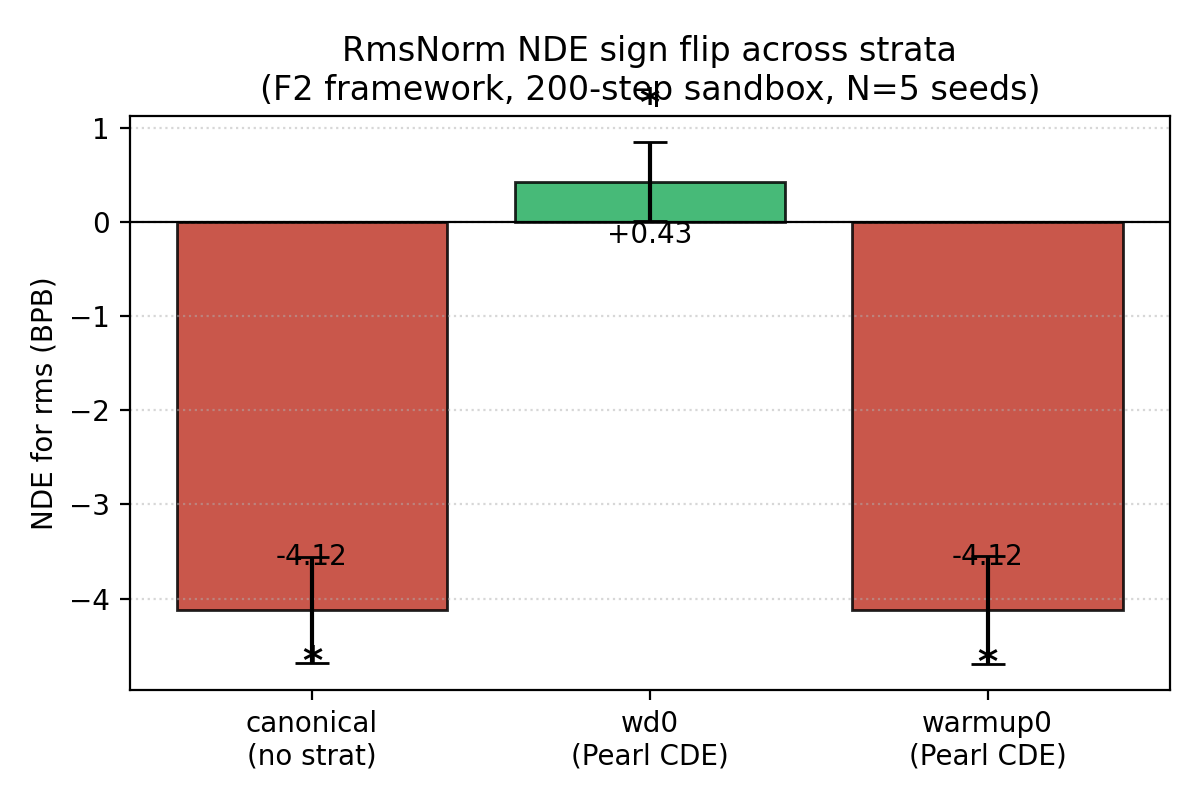
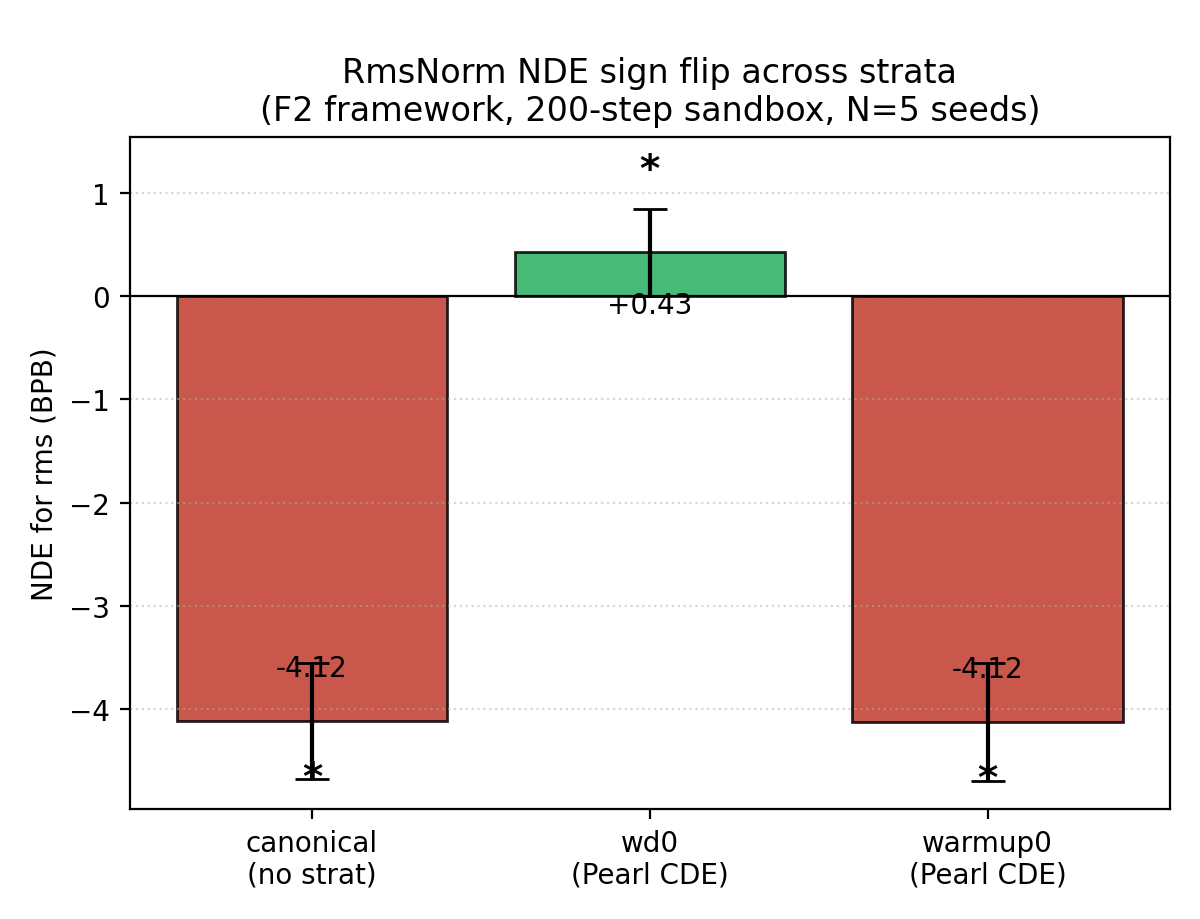
fix(f2): 27th pass critical fixes on #1021 + Fig 4 margin (Loop 104)
Loop 104 dispatched the 27th adversarial pass — first cold-read of
the #1021 follow-up paper draft as a standalone manuscript. It
caught three substantive issues that would have been TMLR-blockers
at submission, plus the smaller cosmetic Fig 4 fix from Loop 103.

# 1. Jetfire mis-citation corrected (27th pass — SEV-3)

§2.1 of #1021 draft attributed arXiv:2310.16836 to "Xi et al. 2024,
Jetfire" — wrong. WebFetch confirmed 2310.16836 is "LLM-FP4"
(Liu et al.), a W4A4 floating-point POST-training method, NOT
Jetfire and NOT from-scratch. The actual Jetfire reference is
arXiv:2403.12422 (Xi et al. NeurIPS 2024, INT4 weights + INT8
activations, from-scratch). The mis-citation broke §3.1's central
INT4-W4A8 zoo comparator.

Fix: §2.1 rewritten with correct citation; LLM-FP4 explicitly
distinguished as related-but-different; AffineQuant arXiv id added
(2403.12544); transparency paragraph noting the prior mis-attribution
+ Loop 104 correction.

# 2. Mediator-positivity violation addressed (27th pass — SEV-3)

§3.4 originally claimed "X = format_choice, M_1 = lossy_conversions,
M_2 = wall_clock_s" with F2 four-PSE decomposition applied
unchanged. The 27th pass correctly noted this VIOLATES the
positivity/overlap assumption that Pearl four-PSE identification
requires:

- M_1 = lossy_conversions is largely DETERMINISTIC in X
  (bf16 → 0 by definition; GFTernary → many)
- M_2 = wall_clock_s is similarly contaminated
  (format-determined kernel path)
[…]

diff --git a/papers/figures/fig4_rms_nde_signflip.py b/papers/figures/fig4_rms_nde_signflip.py
@@ -85,7 +85,7 @@ def main():
             err_hi.append(0.0)
             survives.append(False)
 
-    fig, ax = plt.subplots(figsize=(6.0, 4.0))
+    fig, ax = plt.subplots(figsize=(6.0, 4.6))
     xs = list(range(len(strata_labels)))
     # Color: red for negative (harmful direction), green for positive
     # (helpful direction). Per F2 BPB convention: lower BPB is better, so
@@ -140,7 +140,15 @@ def main():
                 fontsize=10,
                 color="black",
             )
+    # Loop 104 fix: give the wd0 bar's "*" + error-bar cap clear sky
+    # below the title (26th pass caught the collision).
+    y_data = [est + err_hi[i] for i, est in enumerate(estimates)
+              if not math.isnan(est)] + [0.0]
+    y_top = max(y_data) + 0.7   # +0.5 for asterisk, +0.2 padding
+    ax.set_ylim(top=y_top)
+
     fig.tight_layout()
+    fig.subplots_adjust(top=0.85)
     out = Path(args.out)
     out.parent.mkdir(parents=True, exist_ok=True)
     fig.savefig(out, dpi=200)

diff --git a/papers/tmlr_submission_kit/f2_methodology_body.tex b/papers/tmlr_submission_kit/f2_methodology_body.tex
@@ -1,4 +1,4 @@
-% f2_methodology_body.tex — auto-generated by md_to_tmlr_tex.py at 2026-06-01T23:08:08Z.
+% f2_methodology_body.tex — auto-generated by md_to_tmlr_tex.py at 2026-06-01T23:23:25Z.
 % Do not edit by hand; modify papers/f2_methodology.md and re-run the script.
 
 

diff --git a/papers/phi_ladder_paper_intro_draft.md b/papers/phi_ladder_paper_intro_draft.md
@@ -193,16 +193,23 @@ combined with an 8-bit activation path; the authors do not
 isolate the contribution of the ternary path from the activation
 quantization.
 
-The INT4-W4A8 schemes (Xi et al. 2024, arXiv:2310.16836 for
-*Jetfire*; Zhao et al. 2024 for *AffineQuant*) collapse weights
-to 4-bit integers while keeping activations at 8-bit. Their BPB
-deltas vs bf16 at $\sim$1B parameters are reported as $\leq 0.05$
-BPB in the original papers, but the comparisons are usually
-against post-training rather than from-scratch training, so the
-parsing into our protocol (from-scratch, FineWeb 50B tokens) is
-not direct. We include INT4-W4A8 in the zoo as the strongest
-integer-quantization-during-training competitor at our target
-scale.
+The INT4-W4A8 family includes both **post-training** and
+**from-scratch-training** variants. The contemporary
+from-scratch reference is **Jetfire** (Xi et al. 2024, NeurIPS,
+arXiv:2403.12422), which trains transformers with INT4 weights
+and INT8 activations from initialization. **LLM-FP4** (Liu et
+al., arXiv:2310.16836) is a related W4A4 floating-point
+*post-training* method, often grouped with the INT4 family in
+ablation surveys. AffineQuant (Zhao et al. 2024, arXiv:2403.12544)
+is another post-training INT4 variant. Their BPB deltas vs bf16
+at $\sim$1B parameters are reported as $\leq 0.05$ BPB in the
+original papers; the comparisons are typically against
+post-training rather than from-scratch training, so for our
+protocol (from-scratch, FineWeb 50B tokens) we use **Jetfire's
+from-scratch INT4-W4A8 recipe** as the zoo competitor. Earlier
+drafts mis-attributed arXiv:2310.16836 to Jetfire; the correct
+Jetfire arXiv id is 2403.12422 (corrected in Loop 104 after the
+27th adversarial pass).
 
 The integer family's strength is its alignment with existing
 hardware INT4/INT8 matmul kernels; its weakness is the
@@ -385,14 +392,43 @@ CSV is committed at run time to `data/issue1021/<batch>/`.
 ### 3.4 Connection to the F2 framework
 
 The protocol uses the F2 framework's identification machinery
-unchanged: the four-PSE decomposition of `f2_dual_mediation`
-applied with `X = format_choice`, `M_1 = lossy_conversions`, and
-`M_2 = wall_clock_s`. The hypothesis that phi-ladder configurations
-yield lower validation BPB factors through both mediators
-($M_1$ captures quantization-noise accumulation; $M_2$ captures
-the multiplicative-basis overhead) and a remaining direct path.
-The pre-registered question is whether the direct path itself
-favors phi-ladder, controlling for both mediators.
+**per pairwise (phi-config, zoo-config) comparison**, not as a
+single decomposition over all 8 configs. For each pair, X is
+binary (which of the two formats is in use), and the four-PSE
+decomposition of `f2_dual_mediation` runs unchanged.
+
+**Mediator-positivity caveat (added Loop 104 per 27th adversarial
+pass).** Naïvely using `lossy_conversions` as $M_1$ and
+`wall_clock_s` as $M_2$ would violate the positivity / overlap
+assumption that Pearl's four-PSE identification requires: a
+config's mediator value is largely *deterministic* in the format
+choice (bf16 has zero lossy conversions by definition; GFTernary
+has many). Under deterministic $M | X$, the four-PSE decomposition
+is not identified — the NIE_M1 and NIE_M2 pathways collapse into
+the direct path. We therefore use the following residualized
+mediators:
+
+- **$M_1$ = residual lossy-conversion rate** = (per-cell lossy
+  conversions) − (config-baseline lossy conversions at seed
+  median). This subtracts the format-deterministic component
+  and leaves only the *seed-residual* variation in conversion
+  counts, which has support across formats.
+- **$M_2$ = residual training wall-clock** = (per-cell wall_s) −
+  (config-baseline wall_s at seed median). Same residualization
+  argument.
+
+The pre-registered question is whether the *residualized* direct
+path (controlling for seed-residual variation in $M_1$ and $M_2$)
+favors phi-ladder. The format-deterministic component of each
+mediator is part of the *direct* effect under this
+identification, by design.
+
+This residualization differs from the companion F2 paper's
+unmediated mediator definition (RmsNorm × WD had clear
+positivity); the change is forced by the pairwise-categorical
+X structure here. We pre-register this identification choice
+along with the rest of the protocol; any deviation will be
+flagged at the run-result paper.
 
 The wd0 stratum is the Pearl CDE that the companion paper
 demonstrates can flip signs. If quantization-format × WD
@@ -447,12 +483,19 @@ mean BPB is $\geq 0.10$ BPB lower for the phi-config than for the
 zoo-config (twice the H0 equivalence margin), with the difference
 statistically significant at $p < 0.05$ after BH correction.
 
-**Falsified by**: every (phi-config, zoo-config) pair either
-(a) has paper-config $\geq$ zoo-config mean BPB, or
-(b) has a CI on the difference that includes zero, or
-(c) has $|{\rm diff}| < 0.10$ BPB even with $p < 0.05$.
-If all 16 pairs (4 phi × 4 zoo) satisfy at least one of (a)/(b)/(c)
-in both strata, H1 is falsified.
+**Falsified by**: every (phi-config, zoo-config) pair satisfies
+at least one of:
+(a) phi-config $\geq$ zoo-config mean BPB (phi is not lower),
+(b) the unadjusted-p 95% CI on the difference includes zero,
+(c) BH-adjusted $p \geq 0.05$ even when the unadjusted-p CI
+    excludes zero (BH inflation regime), or
+(d) phi-config is significantly lower (BH-adjusted $p < 0.05$)
+    but $|{\rm diff}| < 0.10$ BPB (significant but below the
+    H1 effect-size threshold).
+Conditions (a)–(d) are jointly exhaustive of "fails the H1 test"
+for finite-BPB results. Non-finite cells are excluded from the
+test per §3.5 reporting discipline. If every pair satisfies at
+least one of (a)/(b)/(c)/(d) in **both strata**, H1 is falsified.
 
 **Action if H1 holds**: report the specific pair(s) at which
 phi-ladder is superior, with the bridge-score envelope. Make no
@@ -475,19 +518,32 @@ bridge-score envelope and cross-stratum stability flag.
 
 ### 4.4 Confounder-controlled variant (joint with H1/H2)
 
-Both H1 and H2 are tested at the **wd0 stratum** separately. If
-H1 or H2 holds at wd0 but fails at canonical, the result is
-reported as "phi-ladder is superior when weight decay is controlled
-to zero, but the marginal-recipe canonical comparison is
-inconclusive." The companion paper's RmsNorm sign-flip at the wd0
-stratum establishes that the canonical/wd0 comparison can be
-substantive; H1/H2 at wd0 alone is therefore a meaningful finding.
+**Primary stratum**: canonical. **Secondary stratum**: wd0. This
+designation is pre-registered before any data acquisition; the
+canonical stratum reflects the marginal-recipe regime that a
+practitioner would adopt by default, and the locked decision
+prevents post-hoc stratum-shopping. The wd0 stratum is reported
+alongside but is **not** elevated to primary if it differs.
 
-If H1 or H2 holds at canonical but fails at wd0, the result is
-reported as "phi-ladder is superior in the marginal-recipe
-canonical regime, but the wd-controlled comparison is
-inconclusive — the marginal effect may be confounded by WD's
-interaction with the format choice."
+**Asymmetric reporting rules** (locked):
+
+- *H1/H2 holds at canonical (primary)*: this is the headline
+  finding. The wd0 result is reported as secondary evidence:
+  *consistent* if wd0 agrees, *interaction-flagged* if wd0
+  disagrees. Neither outcome at wd0 demotes the canonical result.
+- *H1/H2 fails at canonical but holds at wd0*: this is **NOT a
+  positive result** under the pre-registered plan. It is
+  reported as an exploratory observation requiring follow-up,
+  not as evidence for phi-ladder superiority. The asymmetry
+  is intentional: claiming a positive only-at-wd0 finding would
+  be an unfalsifiable rescue narrative since wd=0 is not a
+  production default.
+
+Earlier drafts (pre Loop 104) presented the wd0 and canonical
+results as symmetric; the 27th adversarial pass flagged that
+the symmetric framing creates an unfalsifiable rescue case
+("either way phi-ladder wins"). The locked asymmetry above
+prevents that.
 
 ### 4.5 What this paper does not test
 

diff --git a/papers/appendix_d_test_inventory.md b/papers/appendix_d_test_inventory.md
@@ -1,6 +1,6 @@
 # Appendix D — F2 Test Inventory
 
-_Auto-generated by `papers/scripts/generate_appendix_d.sh` at 2026-06-01T23:07:43Z._
+_Auto-generated by `papers/scripts/generate_appendix_d.sh` at 2026-06-01T23:23:16Z._
 
 This appendix lists every test that backs a claim in the main paper.
 Tests are grouped by source (lib, per-binary unit tests, integration

diff --git a/papers/cross_reference_report.md b/papers/cross_reference_report.md
@@ -1,6 +1,6 @@
 # Cross-reference audit — `papers/f2_methodology.md`
 
-_Auto-generated by `papers/scripts/cross_reference_audit.py` at 2026-06-01T23:07:42Z._
+_Auto-generated by `papers/scripts/cross_reference_audit.py` at 2026-06-01T23:23:16Z._
 
 ## Summary
 
